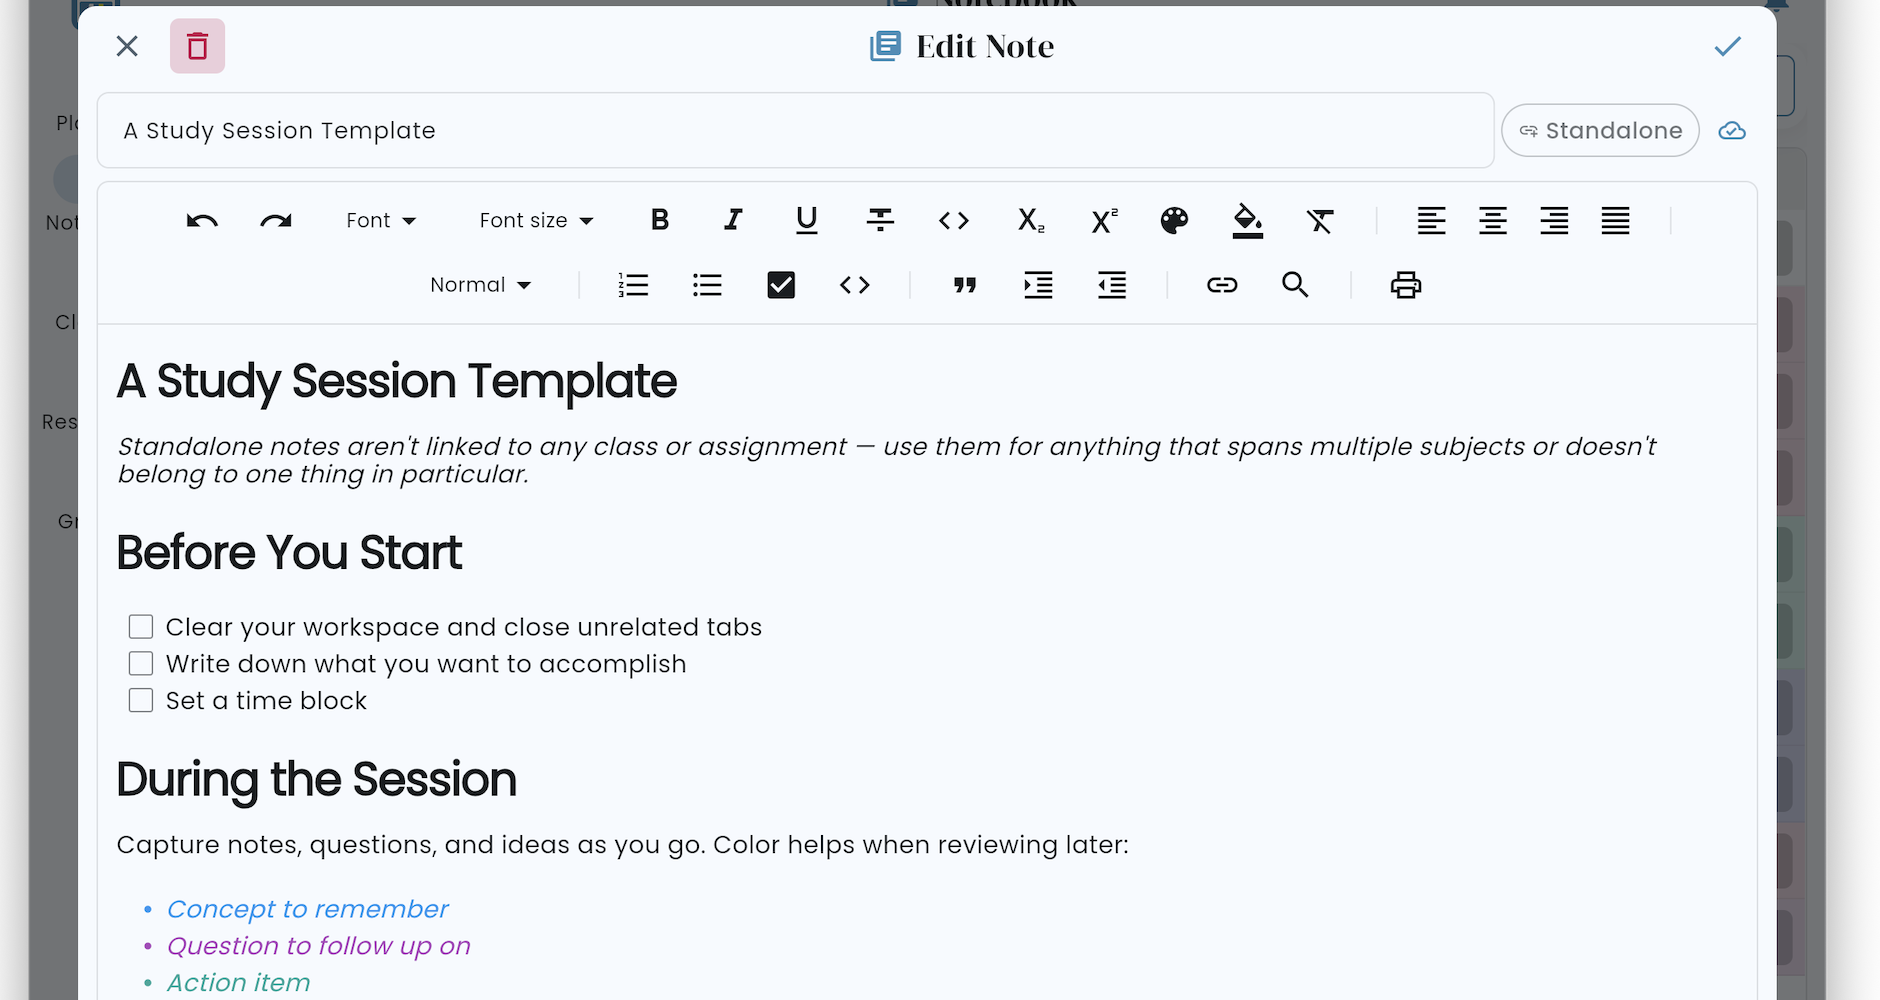
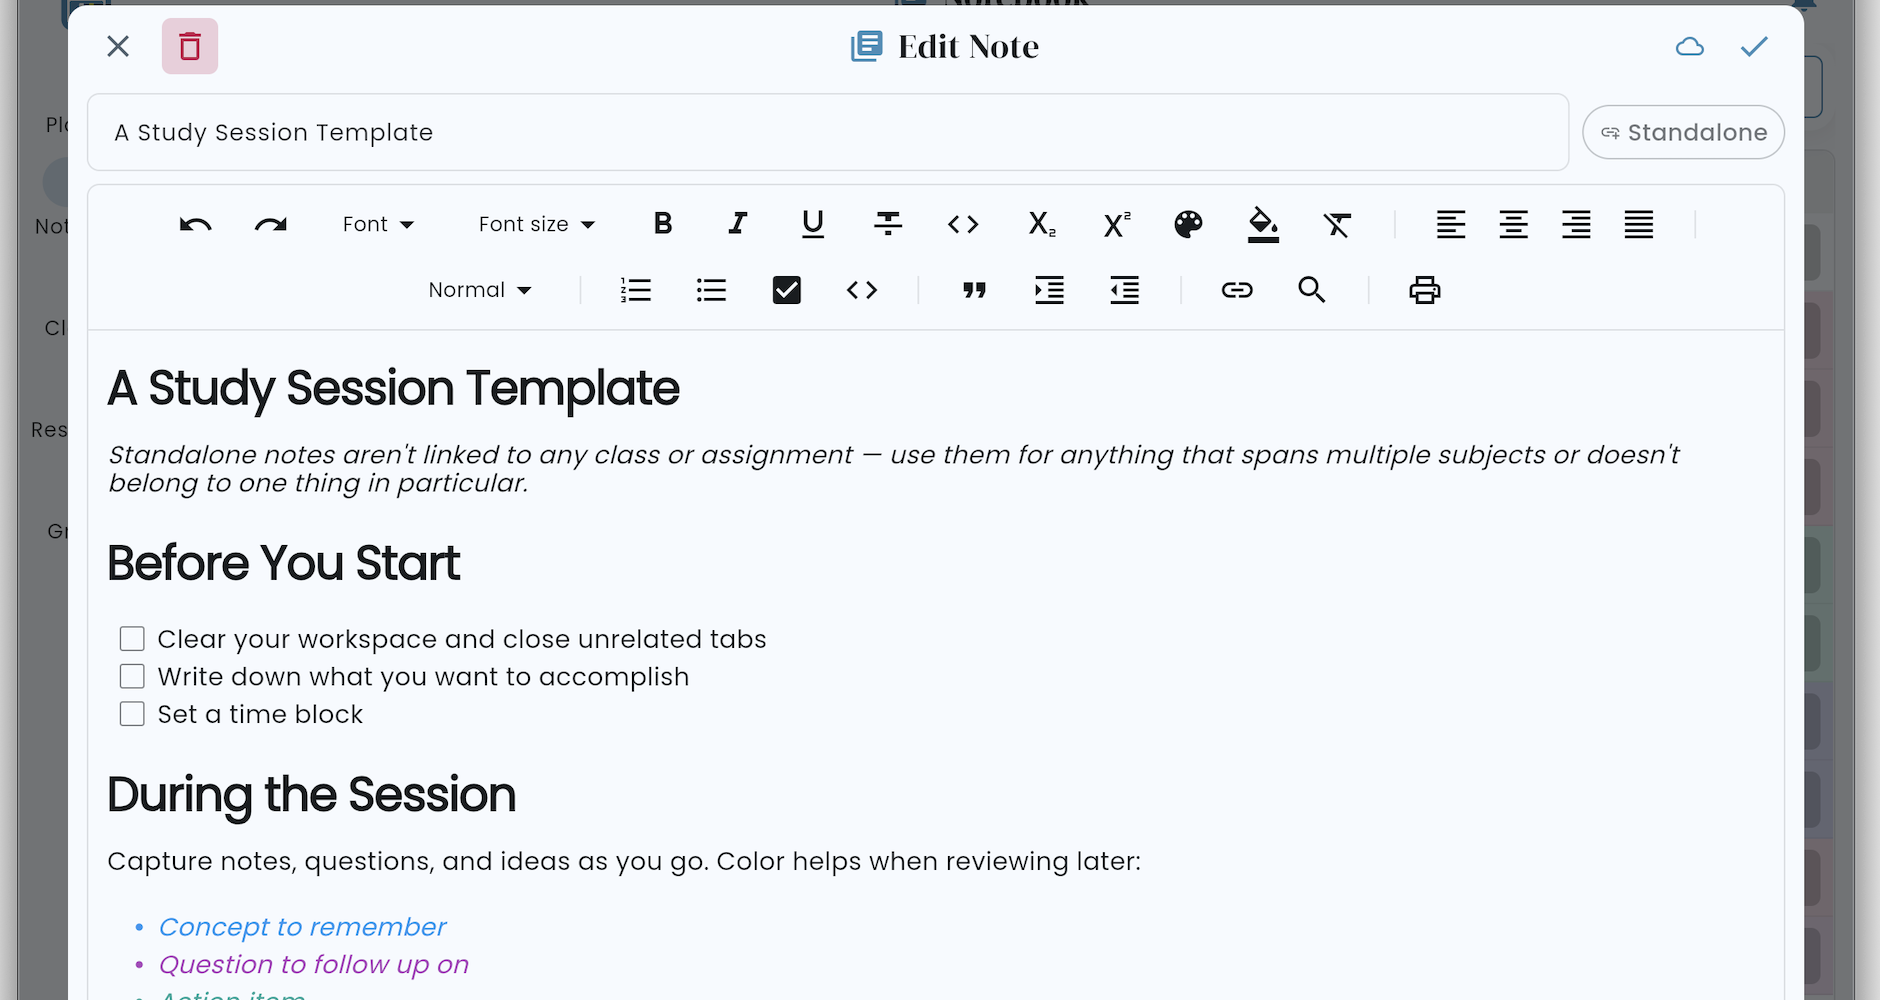
Filter unsent reminders, update metadata/assets
Pass sent: false when fetching reminders so the courses flow only loads unsent reminders. Also update app store copy to simplify reminder wording (remove explicit platform list) and replace onboarding images/assets. These changes ensure the UI shows only pending reminders and keep marketing text/images up to date.

diff --git a/lib/presentation/features/courses/bloc/course_bloc.dart b/lib/presentation/features/courses/bloc/course_bloc.dart
@@ -68,7 +68,7 @@ class CourseBloc extends Bloc<CourseEvent, CourseState> {
         courseRepository.getCourses(forceRefresh: event.forceRefresh),
         categoryRepository.getCategories(forceRefresh: event.forceRefresh),
         attachmentRepository.getAttachments(forceRefresh: event.forceRefresh),
-        reminderRepository.getReminders(forceRefresh: event.forceRefresh),
+        reminderRepository.getReminders(sent: false, forceRefresh: event.forceRefresh),
       ]);
       final courseGroups = results[0] as List<CourseGroupModel>;
       final courses = results[1] as List<CourseModel>;